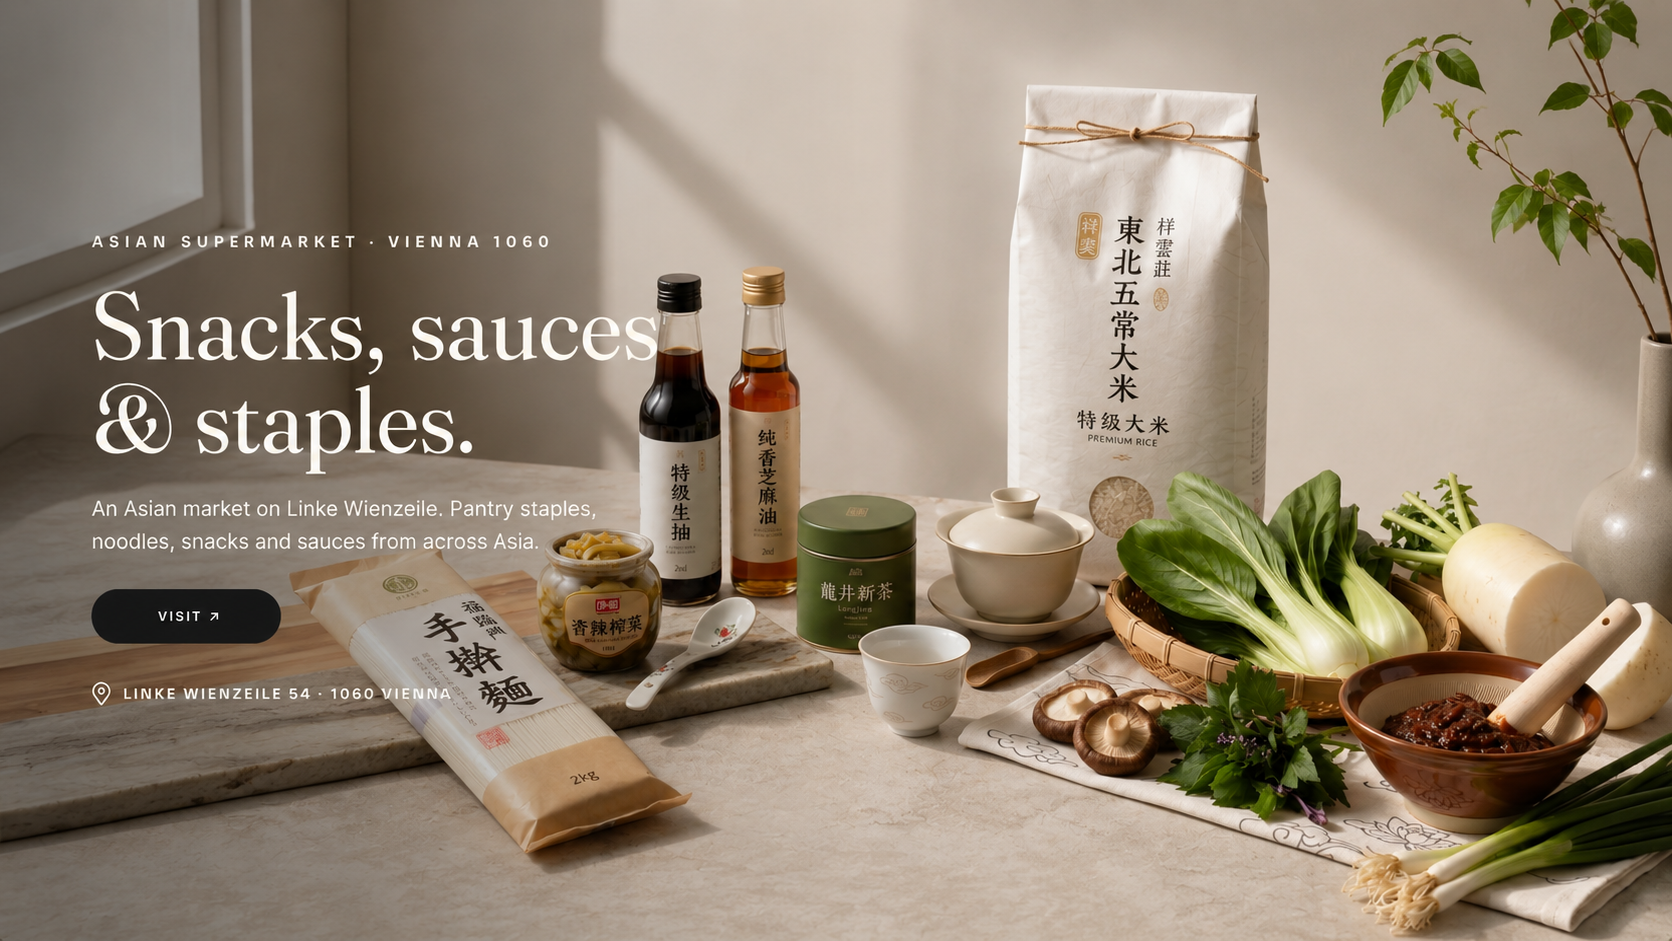
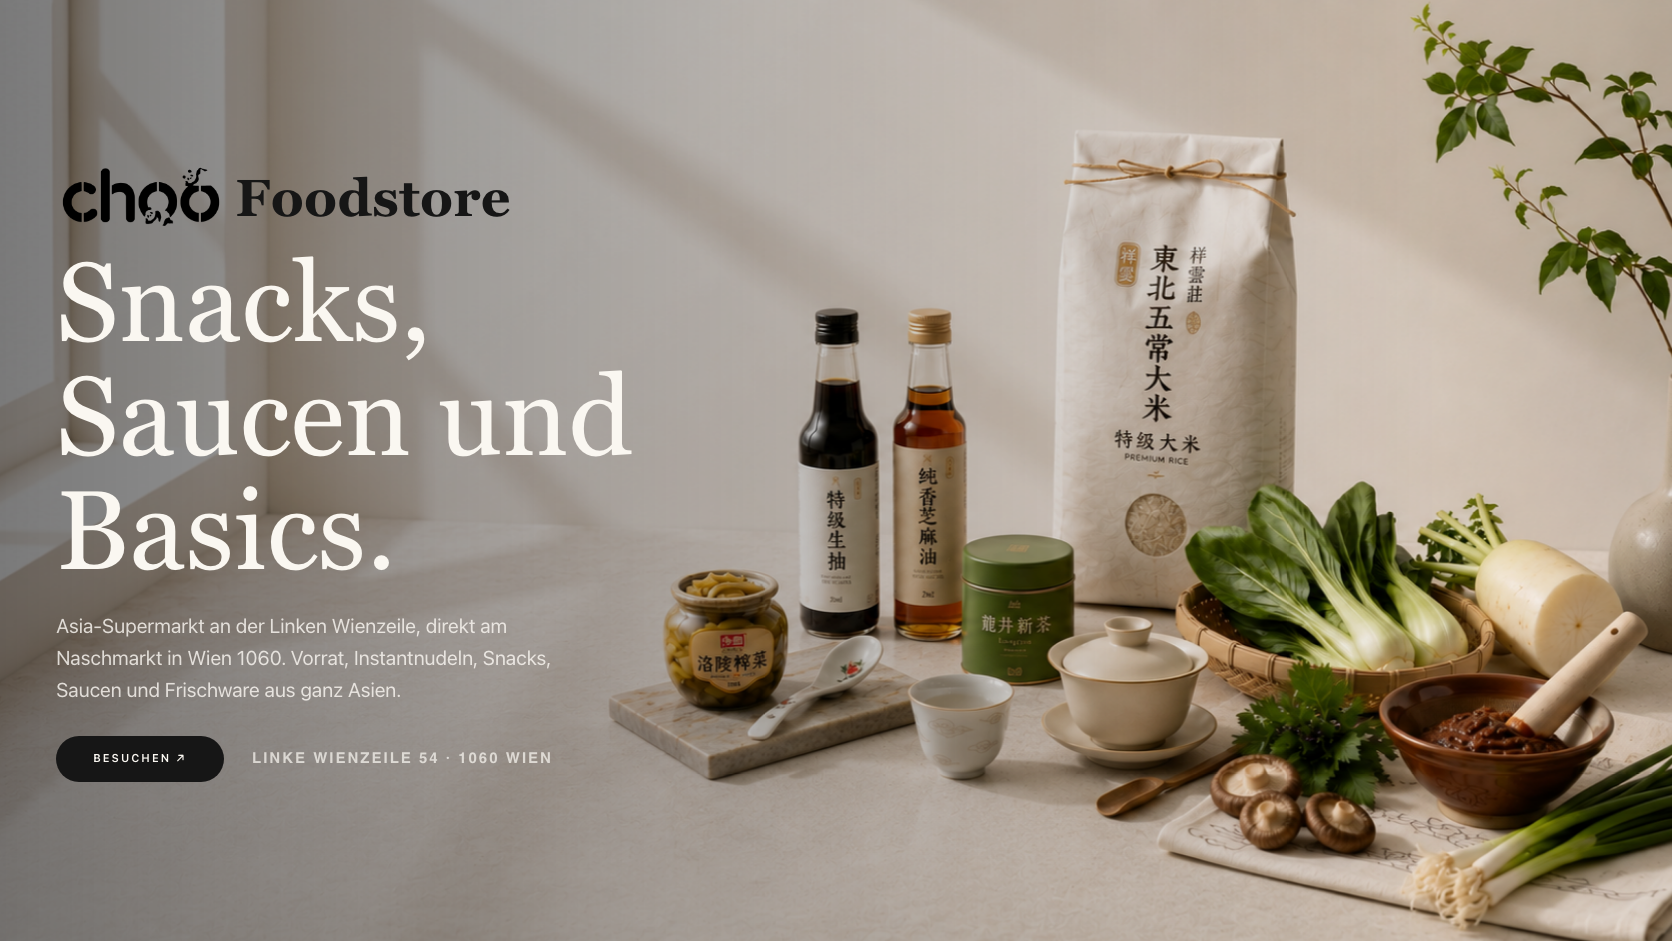
add choo, nes and datri to portfolio, hero and gallery
- portfolio carousel: three new projects with laptop and phone mockups
- sphere gallery: same three projects, choo updated to its new design
- hero circle: renders each reference exactly once instead of showing
  all nine images twice
- link to the 3D gallery below the carousel

diff --git a/Hango/src/components/Portfolio.jsx b/Hango/src/components/Portfolio.jsx
@@ -2,6 +2,7 @@ import React, { useRef, useLayoutEffect, useState, useEffect } from 'react';
 import gsap from 'gsap';
 import { ScrollTrigger } from 'gsap/ScrollTrigger';
 import { HashLink } from 'react-router-hash-link';
+import { Link } from 'react-router-dom';
 import { useAutoCarousel } from '../hooks/useAutoCarousel';
 
 const PORTFOLIO_CAROUSEL_INTERVAL = 7500;
@@ -10,7 +11,7 @@ gsap.registerPlugin(ScrollTrigger);
 
 // Add a slug here once /public/portfolio/handy-{slug}.png exists.
 // Projects not listed fall back to the iphone-frame.png + {slug}-mobile.png composition.
-const HANDY_AVAILABLE = new Set(['sham', 'oasespa', 'fem', 'minicrm', 'misterm', 'sivar']);
+const HANDY_AVAILABLE = new Set(['sham', 'oasespa', 'fem', 'minicrm', 'misterm', 'sivar', 'choo', 'nes', 'datri']);
 
 const projects = [
     {
@@ -61,6 +62,30 @@ const projects = [
         description: 'Eine moderne Markenpräsenz, die Identität, Qualität und Wiedererkennung präzise auf den Punkt bringt.',
         link: '#',
     },
+    {
+        slug: 'choo',
+        domain: 'choo-foodstore.at',
+        category: 'Food & Retail',
+        headline: 'Asiatische Vielfalt, digital zum Greifen nah.',
+        description: 'Ein warmer, kuratierter Auftritt, der Sortiment, Standort und Einkaufslust auf einen Blick vermittelt.',
+        link: 'https://choo-foodstore.at',
+    },
+    {
+        slug: 'nes',
+        domain: 'nes-shop.at',
+        category: 'Fashion & E-Commerce',
+        headline: 'Zurückhaltende Eleganz für eine junge Marke.',
+        description: 'Eine ruhige Premium-Bühne, die Markenwerte, Neugier und Newsletter-Anmeldungen elegant zusammenführt.',
+        link: 'https://nes-shop.at',
+    },
+    {
+        slug: 'datri',
+        domain: 'datri-shop.at',
+        category: 'Sport & E-Commerce',
+        headline: 'Kompromisslose Marke, kompromissloser Auftritt.',
+        description: 'Ein kraftvoller Shop-Auftritt, der Härte, Qualitätsanspruch und klare Kaufwege konsequent verbindet.',
+        link: 'https://datri-shop.at',
+    },
 ];
 
 // Per-project handy size scale (1 = default 18% width / 190px max)
@@ -71,6 +96,9 @@ const HANDY_SCALE = {
     minicrm: 1.32,
     misterm: 1.21,
     sivar: 1.21,
+    choo: 1.21,
+    nes: 1.21,
+    datri: 1.21,
 };
 
 const ProjectCard = ({ project }) => {
@@ -631,6 +659,33 @@ const Portfolio = () => {
               />
             </svg>
           </button>
+        </div>
+
+        {/* Einstieg in die 3D-Galerie (/gallery) */}
+        <div className="mt-12 md:mt-16 flex flex-col items-center gap-3">
+          <Link
+            to="/gallery"
+            className="group inline-flex items-center gap-3 rounded-full bg-gray-950 px-7 py-4 md:px-9 font-inter text-sm md:text-base font-bold text-white shadow-lg shadow-black/20 transition-all duration-300 hover:bg-black hover:shadow-xl hover:shadow-black/30 active:scale-[0.98]"
+          >
+            Alle Projekte ansehen
+            <svg
+              viewBox="0 0 24 24"
+              fill="none"
+              stroke="currentColor"
+              strokeWidth="2.5"
+              aria-hidden="true"
+              className="h-4 w-4 transition-transform duration-300 group-hover:translate-x-1"
+            >
+              <path
+                strokeLinecap="round"
+                strokeLinejoin="round"
+                d="M5 12h14M13 6l6 6-6 6"
+              />
+            </svg>
+          </Link>
+          <p className="font-inter text-[0.65rem] md:text-xs font-semibold uppercase tracking-[0.22em] text-gray-400">
+            Interaktive 3D-Galerie
+          </p>
         </div>
       </div>
     </section>

diff --git a/Hango/src/constants/galleryProjects.js b/Hango/src/constants/galleryProjects.js
@@ -71,14 +71,40 @@ export const galleryProjects = [
     slug: "choo",
     domain: "choo-foodstore.at",
     title: "Choo Foodstore",
-    category: "Food & E-Commerce",
+    category: "Food & Retail",
     tags: ["FOOD", "STORE"],
     year: "2026",
     image: "/portfolio/choo-browser.png",
-    headline: "Frische Vielfalt, digital zum Greifen nah.",
+    headline: "Asiatische Vielfalt, digital zum Greifen nah.",
     description:
-      "Ein lebendiger Online-Auftritt, der Sortiment, Frische und Einkaufserlebnis modern und einladend präsentiert.",
+      "Ein warmer, kuratierter Auftritt, der Sortiment, Standort und Einkaufslust auf einen Blick vermittelt.",
     link: "https://choo-foodstore.at",
+  },
+  {
+    slug: "nes",
+    domain: "nes-shop.at",
+    title: "NES",
+    category: "Fashion & E-Commerce",
+    tags: ["FASHION", "E-COMMERCE"],
+    year: "2026",
+    image: "/portfolio/nes-browser.png",
+    headline: "Zurückhaltende Eleganz für eine junge Marke.",
+    description:
+      "Eine ruhige Premium-Bühne, die Markenwerte, Neugier und Newsletter-Anmeldungen elegant zusammenführt.",
+    link: "https://nes-shop.at",
+  },
+  {
+    slug: "datri",
+    domain: "datri-shop.at",
+    title: "DATRI",
+    category: "Sport & E-Commerce",
+    tags: ["SPORT", "E-COMMERCE"],
+    year: "2026",
+    image: "/portfolio/datri-browser.png",
+    headline: "Kompromisslose Marke, kompromissloser Auftritt.",
+    description:
+      "Ein kraftvoller Shop-Auftritt, der Härte, Qualitätsanspruch und klare Kaufwege konsequent verbindet.",
+    link: "https://datri-shop.at",
   },
   {
     slug: "kiprofessor",

diff --git a/Hango/src/components/Hero.jsx b/Hango/src/components/Hero.jsx
@@ -9,18 +9,16 @@ import {
 } from "framer-motion";
 const IMG_WIDTH = 60;
 const IMG_HEIGHT = 110;
-const TOTAL_IMAGES = 18;
 const MORPH_END = 600;
 const DISAPPEAR_END = 1000;
 
 const PHONE_IMAGES = Array.from(
-  { length: 9 },
+  { length: 12 },
   (_, i) => `/assets/images/phone-view/phone-view${i + 1}.png`
 );
-const IMAGES = Array.from(
-  { length: TOTAL_IMAGES },
-  (_, i) => PHONE_IMAGES[i % PHONE_IMAGES.length]
-);
+// Jede Referenz erscheint genau einmal im Kreis — keine Wiederholungen
+const IMAGES = PHONE_IMAGES;
+const TOTAL_IMAGES = IMAGES.length;
 
 const lerp = (a, b, t) => a * (1 - t) + b * t;
 
